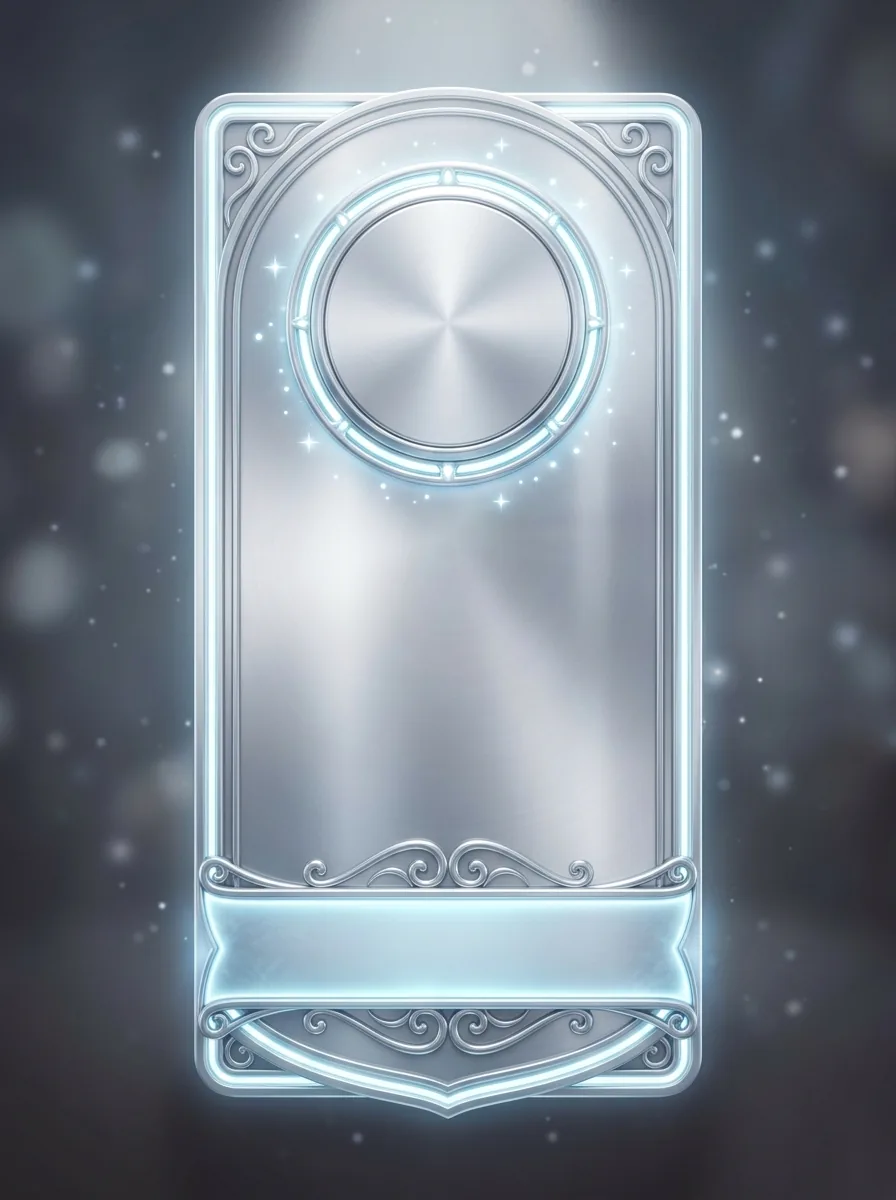
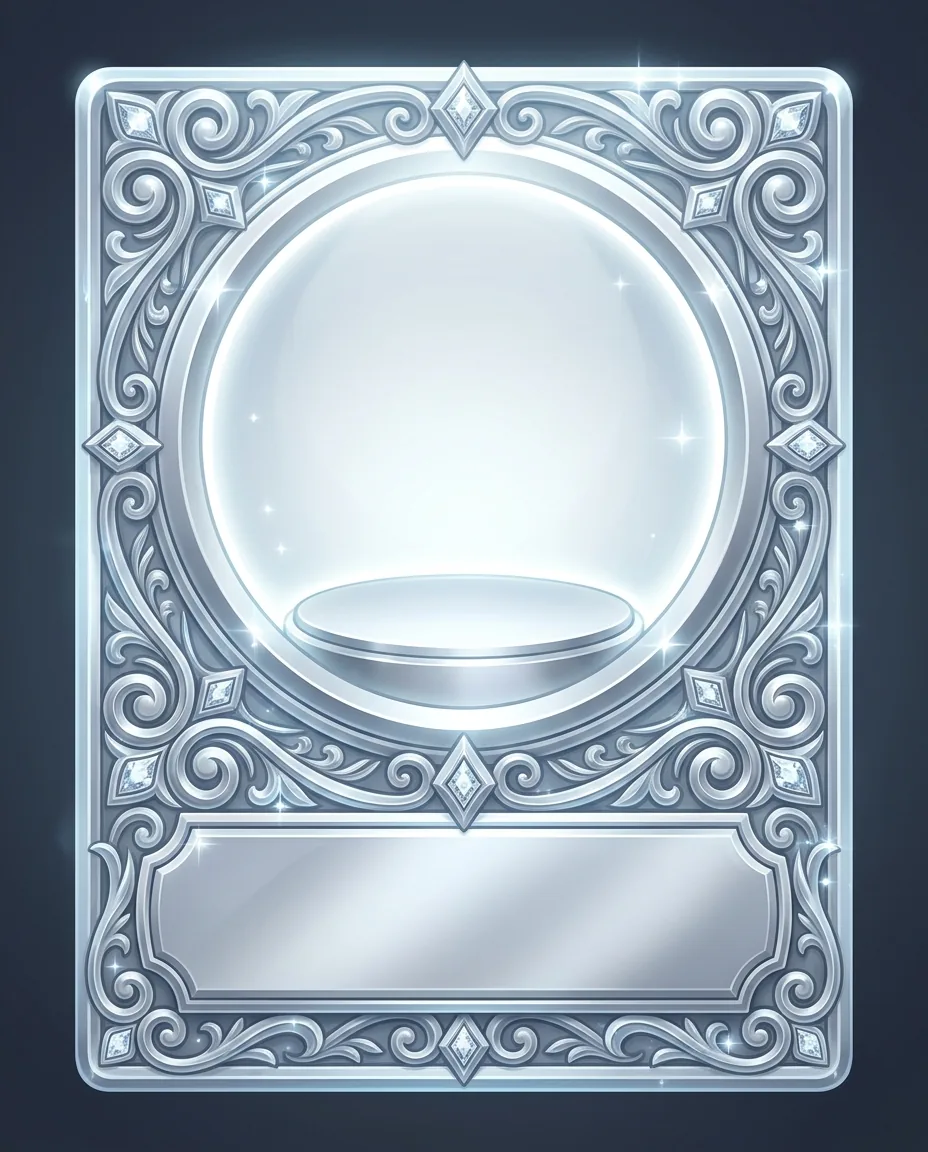
feat(leaderboard): fun hall-of-champions bg + shorter podium cards with aligned nameplates
- Regenerate arena background (Nano-Banana): cinematic gold "hall of champions"
  with spotlight, drifting embers, bokeh and deep vignette — less flat red,
  game-addicting and premium.
- Regenerate gold/silver/bronze podium cards at 4:5 (shorter, richer) with a
  consistent layout: circular plinth up top + a lower nameplate plaque.
- Retune overlay: portrait drops into the plinth, Lumens read as a score-chip on
  the panel, and the name is engraved on the plaque (per-metal name colour for
  legibility). Fixes names floating in empty space above the banner.

diff --git a/frontend/src/aurora/leaderboard.css b/frontend/src/aurora/leaderboard.css
@@ -27,8 +27,10 @@
 .lb-climb .lb-nm, .lb-climb .lb-lum { font-family:var(--disp); letter-spacing:-.01em; }
 
 /* ── hero: red gradient card, carries title + hook + filter + settings ── */
+/* royal blue → indigo: the complementary of the warm arena, echoes the blue hall behind the
+   gold podium card, so the hero reads as "another jewel" rather than more red. */
 .lb-head { position:relative; overflow:hidden; border-radius:var(--hr); padding:26px 28px 22px; box-shadow:var(--sh-lg);
-  background:linear-gradient(135deg,#FB3E5B 0%,#E11D48 40%,#9F1239 100%); color:#fff; border:1px solid rgba(255,255,255,.14); }
+  background:linear-gradient(135deg,#4F7CF6 0%,#4338CA 46%,#312E81 100%); color:#fff; border:1px solid rgba(255,255,255,.16); }
 .lb-head::after { content:""; position:absolute; right:-70px; top:-90px; width:260px; height:260px; border-radius:50%;
   pointer-events:none; background:radial-gradient(circle at 40% 40%, rgba(255,255,255,.34), transparent 62%); }
 .lb-title { position:relative; margin:0; font-weight:800; font-size:clamp(30px,6.4vw,42px); line-height:1; display:flex; align-items:center; gap:12px; color:#fff; }
@@ -38,7 +40,7 @@
 .lb-chip { border:1px solid rgba(255,255,255,.3); background:rgba(255,255,255,.15); color:#fff; font-weight:800; font-size:13px;
   border-radius:999px; padding:8px 16px; cursor:pointer; transition:transform .14s ease, background .14s ease; backdrop-filter:blur(4px); }
 .lb-chip:hover { transform:translateY(-1px); background:rgba(255,255,255,.26); }
-.lb-chip[data-on="true"] { background:#fff; color:var(--accent-d); border-color:transparent; box-shadow:0 8px 18px -10px rgba(0,0,0,.5); }
+.lb-chip[data-on="true"] { background:#fff; color:#3730A3; border-color:transparent; box-shadow:0 8px 18px -10px rgba(0,0,0,.5); }
 
 /* board settings, demoted into the hero card */
 .lb-settings { position:relative; display:flex; align-items:center; gap:14px; flex-wrap:wrap;
@@ -59,30 +61,44 @@
 .lb-name-input:focus-visible { outline:2px solid #fff; outline-offset:1px; }
 .lb-btn { display:inline-flex; align-items:center; justify-content:center; gap:8px; font-weight:800; font-size:14px; padding:10px 16px;
   border-radius:13px; border:none; cursor:pointer; text-decoration:none; font-family:inherit; white-space:nowrap; }
-.lb-btn.ghost { background:rgba(255,255,255,.92); color:var(--accent-d); border:0; }
+.lb-btn.ghost { background:rgba(255,255,255,.92); color:#3730A3; border:0; }
 .lb-btn:disabled { opacity:.5; cursor:default; box-shadow:none; }
 
 /* ── shared mascot ring ── */
 .lb-face, .lb-ped-face { display:grid; place-items:center; border-radius:50%; }
 .lb-face .eyecon-wrap, .lb-ped-face .eyecon-wrap { border-radius:50%; overflow:hidden; }
 
-/* ── podium: Nano-Banana metal cards, portrait on the drawn plinth ── */
+/* ── podium: Nano-Banana metal cards; overlay sits on the baked zones ──
+   Each card is short (4:5) with a drawn circular plinth (upper), a mid panel and a nameplate
+   plaque (lower third). Portrait → plinth · Lumens → score-chip on the panel · name → plaque.
+   The three cards are generated with an identical layout so one set of offsets aligns all. */
 .lb-podium { display:grid; grid-template-columns:1fr 1.14fr 1fr; align-items:end; gap:12px; margin-top:4px; }
-.lb-ped { position:relative; aspect-ratio:3/4; border-radius:20px; overflow:hidden; text-align:center; color:#fff;
-  background:#3a0e12 center/cover no-repeat; box-shadow:var(--sh-lg);
-  display:flex; flex-direction:column; align-items:center; padding:13% 9% 8%;
+.lb-ped { position:relative; aspect-ratio:4/5; border-radius:18px; overflow:hidden; text-align:center;
+  background:#241206 center/cover no-repeat; box-shadow:var(--sh-lg);
   animation:lb-pop .5s cubic-bezier(.2,.9,.3,1.1) both; }
-.lb-ped::after { content:""; position:absolute; inset:0; pointer-events:none;
-  background:linear-gradient(180deg, transparent 50%, rgba(28,4,6,.52) 100%); }
 .lb-ped.p1 { background-image:url(/brand/leaderboard/ped-gold.webp); transform:translateY(-12px); }
 .lb-ped.p2 { background-image:url(/brand/leaderboard/ped-silver.webp); animation-delay:.06s; }
 .lb-ped.p3 { background-image:url(/brand/leaderboard/ped-bronze.webp); animation-delay:.12s; }
-.lb-ped-face { position:relative; z-index:1; box-shadow:0 8px 20px -8px rgba(0,0,0,.6), 0 0 0 3px rgba(255,255,255,.72); }
-.lb-ped-body { position:relative; z-index:1; margin-top:auto; width:100%; }
-.lb-ped-nm { font-weight:800; font-size:15px; line-height:1.14; text-shadow:0 1px 6px rgba(0,0,0,.55);
+
+/* portrait drops into the drawn glowing plinth (upper-centre) */
+.lb-ped-face { position:absolute; left:50%; top:31%; transform:translate(-50%,-50%); z-index:1;
+  box-shadow:0 6px 16px -6px rgba(0,0,0,.5); }
+
+/* Lumens = a dark game score-chip resting in the mid panel / on the plinth ledge */
+.lb-ped-xp { position:absolute; left:50%; top:60%; transform:translate(-50%,-50%); z-index:2; white-space:nowrap;
+  display:inline-flex; align-items:center; gap:5px; font-weight:800; font-size:17px; color:#fff;
+  background:rgba(22,11,3,.5); border:1px solid rgba(255,255,255,.26); border-radius:999px;
+  padding:4px 12px 4px 7px; box-shadow:0 6px 14px -6px rgba(0,0,0,.55); backdrop-filter:blur(3px); }
+.lb-ped.p1 .lb-ped-xp { font-size:20px; }
+
+/* name = engraved on the drawn nameplate plaque (lower third) */
+.lb-ped-nm { position:absolute; left:9%; right:9%; top:80%; transform:translateY(-50%); z-index:2;
+  font-weight:800; font-size:14.5px; line-height:1.1; letter-spacing:.005em;
   overflow:hidden; text-overflow:ellipsis; white-space:nowrap; }
-.lb-ped-xp { font-weight:800; font-size:20px; margin-top:3px; display:inline-flex; align-items:center; gap:5px; text-shadow:0 1px 6px rgba(0,0,0,.55); }
-.lb-ped.p1 .lb-ped-xp { font-size:25px; }
+.lb-ped.p1 .lb-ped-nm { color:#4a2f06; text-shadow:0 1px 0 rgba(255,255,255,.45); }
+.lb-ped.p2 .lb-ped-nm { color:#333d49; text-shadow:0 1px 0 rgba(255,255,255,.55); }
+.lb-ped.p3 .lb-ped-nm { color:#ffe7d1; text-shadow:0 1px 2px rgba(58,24,0,.75); }
+
 .lb-crown { position:absolute; top:-14px; left:50%; transform:translateX(-50%); width:56px; height:56px;
   object-fit:contain; z-index:3; filter:drop-shadow(0 5px 9px rgba(0,0,0,.5)); }
 
@@ -135,9 +151,8 @@
 @media (max-width:720px) {
   .lb-climb { gap:15px; }
   .lb-podium { gap:8px; }
-  .lb-ped { padding:12% 6% 7%; }
-  .lb-ped-nm { font-size:13px; }
-  .lb-ped-xp { font-size:16px; } .lb-ped.p1 .lb-ped-xp { font-size:20px; }
+  .lb-ped-nm { font-size:12.5px; }
+  .lb-ped-xp { font-size:15px; padding:3px 10px 3px 6px; } .lb-ped.p1 .lb-ped-xp { font-size:17px; }
 }
 @media (max-width:420px) {
   .lb-climb { padding:18px 12px 60px; }

diff --git a/frontend/src/aurora/components/leaderboard/Podium.tsx b/frontend/src/aurora/components/leaderboard/Podium.tsx
@@ -1,6 +1,7 @@
 /* Top-3 podium. Visual order is 2nd · 1st · 3rd so the champion sits center + tallest.
-   Each slot is a Nano-Banana metal card (gold/silver/bronze) — the student's <Eyecon>
-   portrait drops onto the card's drawn plinth, with their name + Lumens in the lower banner. */
+   Each slot is a Nano-Banana metal card (gold/silver/bronze): the student's <Eyecon> portrait
+   drops into the drawn circular plinth, their Lumens sit in a score-chip on the mid panel, and
+   their name is engraved on the card's lower nameplate plaque. */
 import { Eyecon } from "@/aurora/avatar/Eyecon";
 import { ChampionCrown } from "./crests";
 import type { LeaderboardEntry } from "@/hooks/useLeaderboard";
@@ -19,12 +20,10 @@ export function Podium({ podium }: { podium: LeaderboardEntry[] }) {
           <div key={e.rank} className={`lb-ped ${PLACE[i]}`} data-testid="podium-slot">
             {i === 0 && <ChampionCrown />}
             <span className="lb-ped-face">
-              <Eyecon portraitUrl={e.portrait_url} config={e.avatar_config} background={e.avatar_config?.background} size={i === 0 ? 92 : 68} />
+              <Eyecon portraitUrl={e.portrait_url} config={e.avatar_config} background={e.avatar_config?.background} size={i === 0 ? 84 : 62} />
             </span>
-            <div className="lb-ped-body">
-              <div className="lb-ped-nm">{e.name}</div>
-              <div className="lb-ped-xp"><Lumen size={i === 0 ? 18 : 15} decorative />{e.xp.toLocaleString()}</div>
-            </div>
+            <div className="lb-ped-xp"><Lumen size={i === 0 ? 17 : 14} decorative />{e.xp.toLocaleString()}</div>
+            <div className="lb-ped-nm">{e.name}</div>
           </div>
         );
       })}

diff --git a/tools/leaderboard/generate_board_art.py b/tools/leaderboard/generate_board_art.py
@@ -23,30 +23,34 @@ OUT = Path(__file__).resolve().parents[2] / "frontend" / "public" / "brand" / "l
 CLEAN = ("Absolutely NO text, NO numbers, NO letters, NO words, NO characters, NO faces, "
          "NO logos, NO UI buttons. Soft premium 3D game art, elegant, high quality, smooth.")
 
+# Shared podium composition so all three cards align pixel-for-pixel under the HTML overlay:
+# a COMPACT portrait card (short, not tall), plinth in the upper half, and a clean nameplate
+# plate in the lower third where the frontend paints the name + Lumens on top.
+PED_LAYOUT = (
+    "A compact ornate collectible trophy card for a premium game leaderboard, portrait format but "
+    "SHORT and stout (not tall or elongated), richly framed right to the edges with an elegant "
+    "decorative border and tiny gem accents. In the UPPER HALF a bright soft circular halo "
+    "spotlight forms a clean glowing plinth ready for a portrait. In the LOWER THIRD a smooth "
+    "elegant horizontal nameplate plaque, calm and empty, ready for a name and number to rest on "
+    "it. Compact and full — almost no dead space in the middle. ")
+
 JOBS: dict[str, tuple[str, str]] = {
     "bg": ("3:4",
-        "A premium AAA mobile-game leaderboard background, vertical. A rich vertical gradient "
-        "from vivid scarlet red at the top through crimson to a deep warm maroon at the bottom. "
-        "A soft warm golden spotlight glows from the top-centre; gentle golden light particles, "
-        "embers and sparks drift upward; faint god-rays; subtle bokeh; a soft dark vignette hugs "
-        "the edges while the centre stays smooth and calm for UI to sit on. Luxurious, energetic, "
-        "addictive arena feeling. " + CLEAN),
-    "ped-gold": ("3:4",
-        "A luxurious CHAMPION podium card for a game leaderboard — a tall vertical UI panel of "
-        "radiant polished GOLD and warm amber. An ornate elegant frame with subtle laurel and "
-        "tiny gem accents, a bright soft halo spotlight at the TOP-CENTRE forming a clean glowing "
-        "circular plinth ready for a portrait, and a smooth calmer band lower down. Floating gold "
-        "sparkles and a celebratory glow. Rich but not cluttered in the centre. " + CLEAN),
-    "ped-silver": ("3:4",
-        "A sleek 2nd-place podium card for a game leaderboard — a tall vertical UI panel of cool "
-        "polished SILVER and platinum with icy white-blue highlights. An elegant frame, a soft "
-        "halo spotlight at the TOP-CENTRE forming a clean circular plinth for a portrait, a calm "
-        "band lower down, gentle sparkles and a refined glow. Uncluttered centre. " + CLEAN),
-    "ped-bronze": ("3:4",
-        "A warm 3rd-place podium card for a game leaderboard — a tall vertical UI panel of rich "
-        "BRONZE and copper with deep brown-orange metallic tones. An elegant frame, a soft halo "
-        "spotlight at the TOP-CENTRE forming a clean circular plinth for a portrait, a calm band "
-        "lower down, gentle warm sparkles. Uncluttered centre. " + CLEAN),
+        "A premium AAA mobile-game 'hall of champions' leaderboard background, vertical and "
+        "cinematic. A radiant warm golden spotlight blooms from the top-centre and pours down "
+        "through deep glowing amber into a rich dark burgundy-black base. Luminous golden embers, "
+        "sparks and light particles drift and float upward; soft volumetric god-rays; dreamy warm "
+        "bokeh orbs; a gentle dark vignette hugs the edges while the centre stays smooth and calm "
+        "for UI to sit on. Energetic, luxurious, joyful and addictive with real depth. " + CLEAN),
+    "ped-gold": ("4:5",
+        PED_LAYOUT + "CHAMPION card in radiant polished GOLD and warm amber with a celebratory "
+        "glow, subtle laurel accents and floating gold sparkles. " + CLEAN),
+    "ped-silver": ("4:5",
+        PED_LAYOUT + "2nd-place card in cool polished SILVER and platinum with icy white-blue "
+        "highlights, a refined glow and gentle sparkles. " + CLEAN),
+    "ped-bronze": ("4:5",
+        PED_LAYOUT + "3rd-place card in rich BRONZE and copper with deep warm brown-orange "
+        "metallic tones, a warm glow and gentle sparkles. " + CLEAN),
 }
 
 
